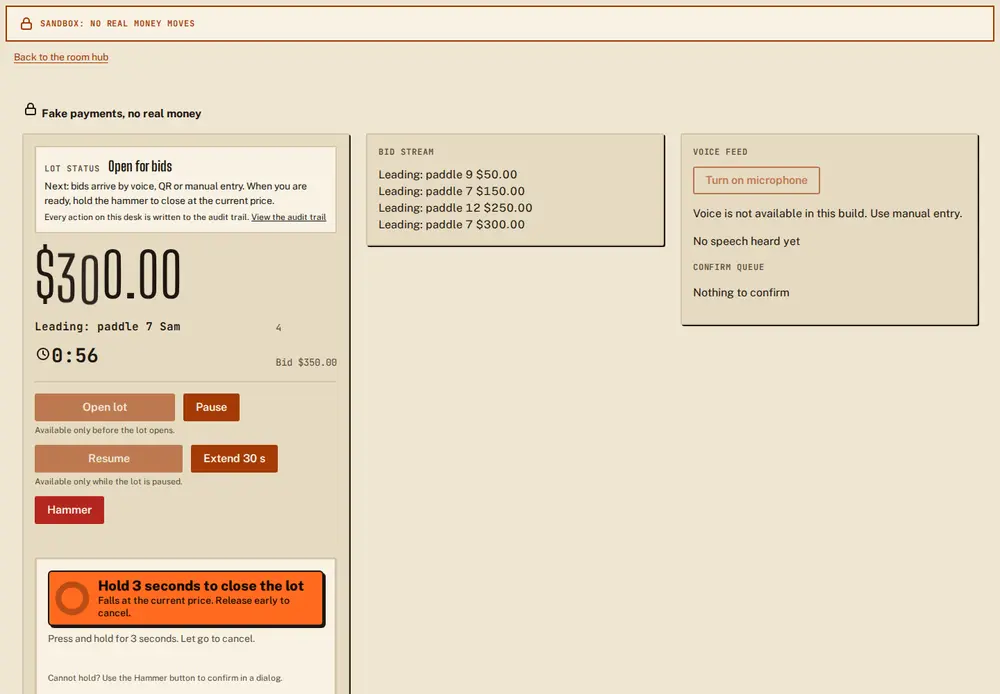
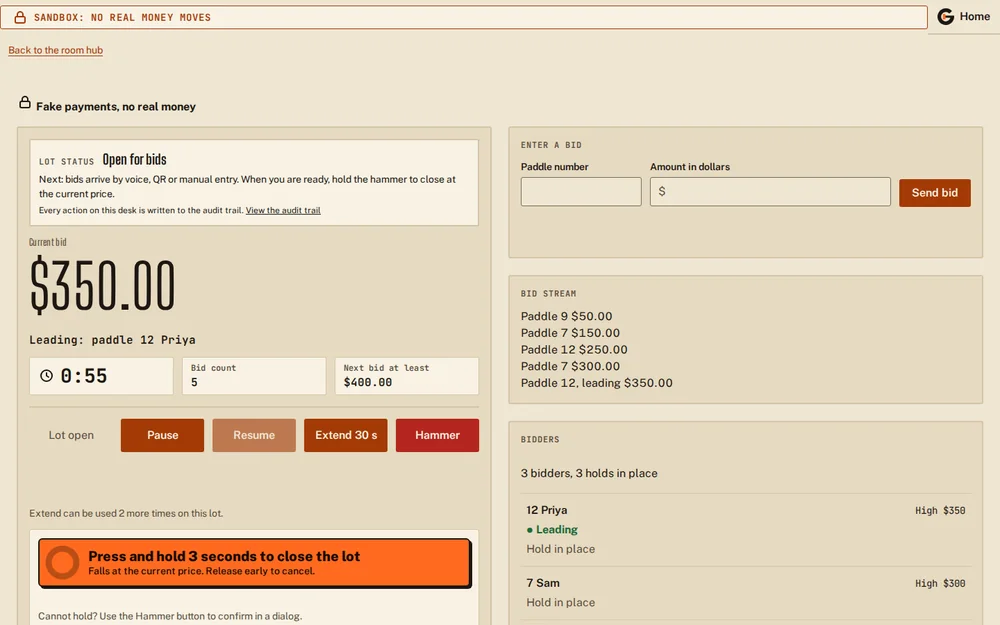
UIX-70: refresh landing screen shots, show phone shots whole (#2628)
* fix(web): refresh landing shots and show phone shots whole

* fix(web): keep landing receipt alt text clear of banned wording

* fix(web): tidy landing receipt alt text

diff --git a/packages/web/test/screens/landing-shots.spec.ts b/packages/web/test/screens/landing-shots.spec.ts
@@ -18,8 +18,12 @@ const OUT = process.env['LANDING_SHOTS_DIR'];
 /** Scenario time after the fifth bid and before the hammer: paddle 12 leads at $350.00. */
 const LIVE_AT = 5_500;
 const PADDLE = 12;
+/** Moves the sample room from its 2023 start to 11 Nov 2026, 09:30 UTC (a current date on the receipt). */
+const SHIFT = 1_794_389_400_000 - 1_700_000_000_000;
+/** Where the Screens section pictures go, when set (before/after checks of the page layout). */
+const SECTION_OUT = process.env['LANDING_SECTION_DIR'];
 
-test.skip(OUT === undefined, 'LANDING_SHOTS_DIR is not set');
+test.skip(OUT === undefined && SECTION_OUT === undefined, 'LANDING_SHOTS_DIR is not set');
 
 async function save(page: Page, name: string): Promise<void> {
   await page.evaluate(() => document.fonts.ready);
@@ -29,24 +33,37 @@ async function save(page: Page, name: string): Promise<void> {
 
 test.describe('landing shots', () => {
   test('console', async ({ page }, info) => {
-    test.skip(info.project.name !== 'desktop-light');
-    await openRoom(page, { scenario: happy, at: LIVE_AT, role: 'auctioneer', route: 'console' });
+    test.skip(OUT === undefined || info.project.name !== 'desktop-light');
+    await openRoom(page, {
+      scenario: happy,
+      at: LIVE_AT,
+      timeShiftMs: SHIFT,
+      role: 'auctioneer',
+      route: 'console',
+    });
     await page.getByRole('button', { name: t('console.hammer'), exact: true }).waitFor();
     await save(page, 'console');
   });
 
   test('screen', async ({ page }, info) => {
-    test.skip(info.project.name !== 'desktop-light');
-    await openRoom(page, { scenario: happy, at: LIVE_AT, role: 'screen', route: 'screen' });
+    test.skip(OUT === undefined || info.project.name !== 'desktop-light');
+    await openRoom(page, {
+      scenario: happy,
+      at: LIVE_AT,
+      timeShiftMs: SHIFT,
+      role: 'screen',
+      route: 'screen',
+    });
     await page.locator('main.gv-screen').waitFor();
     await save(page, 'screen');
   });
 
   test('bidder', async ({ page }, info) => {
-    test.skip(info.project.name !== 'phone-light');
+    test.skip(OUT === undefined || info.project.name !== 'phone-light');
     await openRoom(page, {
       scenario: happy,
       at: LIVE_AT,
+      timeShiftMs: SHIFT,
       role: 'bidder',
       route: 'bid',
       paddle: PADDLE,
@@ -56,15 +73,29 @@ test.describe('landing shots', () => {
   });
 
   test('receipt', async ({ page }, info) => {
-    test.skip(info.project.name !== 'phone-light');
+    test.skip(OUT === undefined || info.project.name !== 'phone-light');
     await openRoom(page, {
       scenario: happy,
       at: HAPPY.settled,
       role: 'bidder',
       route: 'receipt',
       paddle: PADDLE,
+      timeShiftMs: SHIFT,
     });
     await expect(page.getByRole('heading', { name: t('receipt.title') })).toBeVisible();
     await save(page, 'receipt');
+  });
+
+  test('section', async ({ page }, info) => {
+    test.skip(SECTION_OUT === undefined);
+    await page.goto('/');
+    const section = page.locator('#screens');
+    await section.scrollIntoViewIfNeeded();
+    await page.evaluate(() => document.fonts.ready);
+    // The images load lazily and the cards reveal on scroll: let both finish.
+    await page.waitForTimeout(1500);
+    await section.screenshot({
+      path: join(SECTION_OUT ?? '.', `section-${info.project.name}.png`),
+    });
   });
 });

diff --git a/packages/web/test/screens/support/harness.ts b/packages/web/test/screens/support/harness.ts
@@ -80,6 +80,11 @@ export interface RoomOptions {
   withoutToken?: boolean;
   /** Which roster paddle the device is, for the bidder role. Default: the first on the roster. */
   paddle?: number;
+  /**
+   * Moves every scenario timestamp (and the page clock) by this many ms, so a picture can show a
+   * current date instead of the scenario's 2023 start. Cents and other small numbers are untouched.
+   */
+  timeShiftMs?: number;
 }
 
 const BIDDER_CEILING_CENTS = 50_000;
@@ -99,7 +104,25 @@ export function roomIdOf(scenario: Scenario): string {
   throw new Error(`scenario ${scenario.name} has no state frame`);
 }
 
-function framesUpTo(scenario: Scenario, at: number, you: BidderId | null): ServerMessage[] {
+/** Adds `shift` to every number that looks like an epoch ms near BASE_TIME. */
+function shiftTimes(value: unknown, shift: number): unknown {
+  if (shift === 0) return value;
+  if (typeof value === 'number') {
+    return value >= BASE_TIME - 1e6 && value <= BASE_TIME + 1e7 ? value + shift : value;
+  }
+  if (Array.isArray(value)) return value.map((v) => shiftTimes(v, shift));
+  if (value !== null && typeof value === 'object') {
+    return Object.fromEntries(Object.entries(value).map(([k, v]) => [k, shiftTimes(v, shift)]));
+  }
+  return value;
+}
+
+function framesUpTo(
+  scenario: Scenario,
+  at: number,
+  you: BidderId | null,
+  shift = 0,
+): ServerMessage[] {
   const out: ServerMessage[] = [];
   for (const step of scenario.steps) {
     if (step.emit === undefined || step.at > at) continue;
@@ -116,7 +139,7 @@ function framesUpTo(scenario: Scenario, at: number, you: BidderId | null): Serve
       out.push(msg);
     }
   }
-  return out;
+  return shift === 0 ? out : (out.map((m) => shiftTimes(m, shift)) as ServerMessage[]);
 }
 
 function lastSeqOf(frames: readonly ServerMessage[]): number {
@@ -139,7 +162,15 @@ export async function serveRoom(
   page: Page,
   opts: Pick<
     RoomOptions,
-    'scenario' | 'at' | 'role' | 'reply' | 'dropAfterJoin' | 'joinError' | 'silent' | 'paddle'
+    | 'scenario'
+    | 'at'
+    | 'role'
+    | 'reply'
+    | 'dropAfterJoin'
+    | 'joinError'
+    | 'silent'
+    | 'paddle'
+    | 'timeShiftMs'
   >,
 ): Promise<ServedRoom> {
   const roomId = roomIdOf(opts.scenario);
@@ -147,15 +178,16 @@ export async function serveRoom(
   const me =
     roster.find((r) => (opts.paddle === undefined ? true : r.paddle === opts.paddle)) ?? roster[0];
   const you = opts.role === 'bidder' && me !== undefined ? (me.bidderId as BidderId) : null;
-  const frames = framesUpTo(opts.scenario, opts.at, you);
+  const shift = opts.timeShiftMs ?? 0;
+  const frames = framesUpTo(opts.scenario, opts.at, you, shift);
   let seq = lastSeqOf(frames);
   const next = (): Envelope => {
     seq += 1;
-    return { seq, ts: BASE_TIME + opts.at + seq };
+    return { seq, ts: BASE_TIME + shift + opts.at + seq };
   };
   let joined = false;
 
-  await page.clock.setFixedTime(BASE_TIME + opts.at);
+  await page.clock.setFixedTime(BASE_TIME + shift + opts.at);
   await page.routeWebSocket(WS_URL, (ws) => {
     if (opts.dropAfterJoin === true && joined) {
       void ws.close();

diff --git a/packages/web/src/copy/en.ts b/packages/web/src/copy/en.ts
@@ -189,13 +189,13 @@ export const en = {
     'Screenshots of the app on its test stage: a simulated room with sample bids and amounts. Not a real auction.',
   'mk.shots.bidder.cap': 'Bidder, on a phone: the price, your paddle and your hold.',
   'mk.shots.bidder.alt':
-    'The bidder screen on a phone: current price 500 dollars, leading paddle 7, your hold of 500 dollars marked held, and three bid buttons.',
+    'The bidder screen on a phone: a Leading badge, current price 350 dollars with paddle 12 in front, your limit of 500 dollars, and three bid buttons.',
   'mk.shots.screen.cap': 'Public screen: the current bid, the latest bids and a QR code to join.',
   'mk.shots.screen.alt':
-    'The public screen: a large price of 300 dollars, paddle number 7, a countdown, a list of latest bids and a QR code.',
+    'The public screen in cream and ink: a large price of 350 dollars, paddle number 12, a countdown, a list of latest bids and a QR code.',
   'mk.shots.receipt.cap': 'Receipt: the winning amount and the rest of the hold, released.',
   'mk.shots.receipt.alt':
-    'The receipt page: item, winning price 350 dollars, a bar with a solid part for the amount taken and a dashed part for the amount released.',
+    'The receipt page: sandbox notice, item, winning price 350 dollars, a total, a bar with a solid part for the amount taken and a dashed part for the amount released.',
   'mk.shots.console.cap':
     'Auctioneer console: lot controls, the bid stream, bidders and their holds.',
   'mk.shots.console.alt':

diff --git a/packages/web/src/screens/landing/LandingStory.tsx b/packages/web/src/screens/landing/LandingStory.tsx
@@ -52,7 +52,7 @@ export function ShotsSection() {
       srcSet:
         '/landing/console-480.webp 480w, /landing/console-720.webp 720w, /landing/console.webp 1000w',
       width: 1000,
-      height: 694,
+      height: 625,
       cap: t('mk.shots.console.cap'),
       alt: t('mk.shots.console.alt'),
     },
@@ -62,7 +62,7 @@ export function ShotsSection() {
       srcSet:
         '/landing/screen-480.webp 480w, /landing/screen-720.webp 720w, /landing/screen.webp 1000w',
       width: 1000,
-      height: 677,
+      height: 625,
       cap: t('mk.shots.screen.cap'),
       alt: t('mk.shots.screen.alt'),
     },
@@ -70,7 +70,7 @@ export function ShotsSection() {
       id: 'bidder',
       src: '/landing/bidder.webp',
       width: 480,
-      height: 794,
+      height: 1039,
       cap: t('mk.shots.bidder.cap'),
       alt: t('mk.shots.bidder.alt'),
     },
@@ -78,7 +78,7 @@ export function ShotsSection() {
       id: 'receipt',
       src: '/landing/receipt.webp',
       width: 480,
-      height: 960,
+      height: 1039,
       cap: t('mk.shots.receipt.cap'),
       alt: t('mk.shots.receipt.alt'),
     },

diff --git a/packages/web/src/screens/landing/landing-story.css b/packages/web/src/screens/landing/landing-story.css
@@ -125,14 +125,14 @@
     grid-row: 1 / span 2;
   }
 
+  /* Phone shots show whole: no cropping, no stretching. The card is as tall as the picture needs. */
   .gv-shot--bidder .gv-shot__img,
   .gv-shot--receipt .gv-shot__img {
-    flex: 1 1 auto;
-    min-height: 0;
-    max-width: none;
-    height: 100%;
-    object-fit: cover;
-    object-position: top;
+    width: 100%;
+    max-width: 360px;
+    height: auto;
+    margin-inline: auto;
+    object-fit: contain;
   }
 }
 
